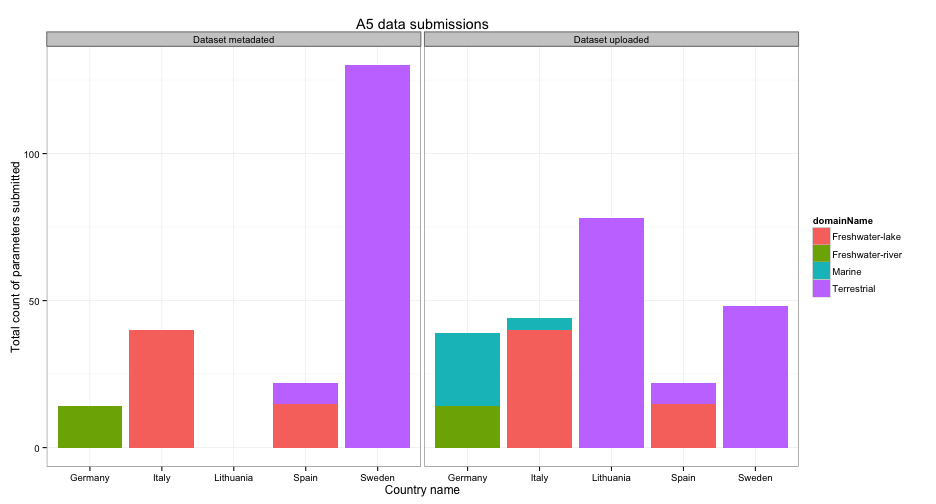
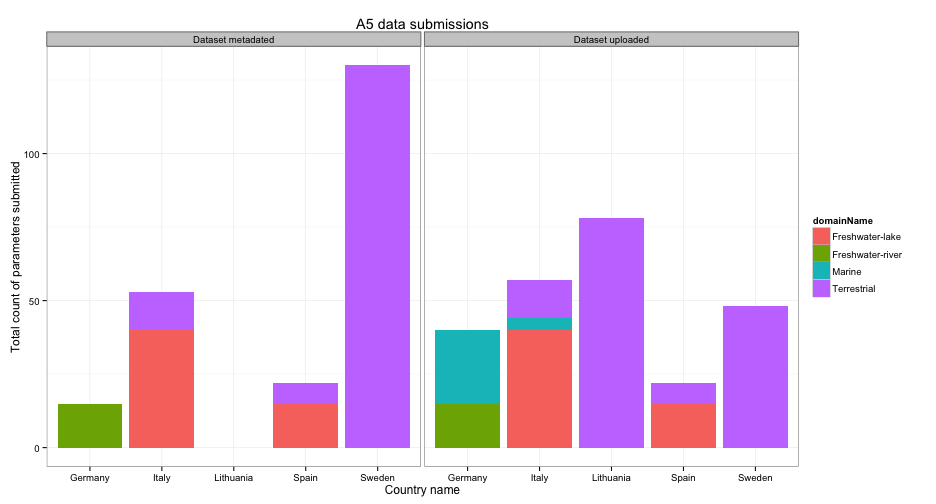
publishing deck

Changed region(s): [[0.5267, 0.5357, 0.6197, 0.6548], [0.1239, 0.5655, 0.2169, 0.6548], [0.4647, 0.6548, 0.5267, 0.6845]]

diff --git a/index.html b/index.html
@@ -48,9 +48,9 @@
   </hgroup>
   <article>
     <ul>
-<li>Last updated <code>2013-03-08</code></li>
+<li>Last updated <code>2013-03-09</code></li>
 <li>Deadline for data submission: <code>2013-03-08</code></li>
-<li>Days to deadline: <code>0</code></li>
+<li>Days to deadline: <code>-1</code></li>
 <li>Total number of sites sampled in 2012: <code>61</code>; sub-sites: <code>65</code></li>
 </ul>
 
@@ -58,13 +58,13 @@
 
 <!-- html table generated in R 2.15.3 by xtable 1.7-0 package -->
 
-<!-- Fri Mar  8 08:08:02 2013 -->
+<!-- Sat Mar  9 08:33:04 2013 -->
 
 <TABLE border=1>
 <TR> <TH>  </TH> <TH> No. uploaded </TH> <TH> No. metadated </TH> <TH> Total no. </TH> <TH> Upload ratio </TH> <TH> Metadata ratio </TH>  </TR>
-  <TR> <TD align="right"> Year2012 </TD> <TD align="right"> 156 </TD> <TD align="right"> 159 </TD> <TD align="right"> 2025 </TD> <TD align="right"> 0.08 </TD> <TD align="right"> 0.08 </TD> </TR>
-  <TR> <TD align="right"> Year2011 </TD> <TD align="right">  75 </TD> <TD align="right">  47 </TD> <TD align="right"> 265 </TD> <TD align="right"> 0.28 </TD> <TD align="right"> 0.18 </TD> </TR>
-  <TR> <TD align="right"> Sum </TD> <TD align="right"> 231 </TD> <TD align="right"> 206 </TD> <TD align="right"> 2290 </TD> <TD align="right"> 0.10 </TD> <TD align="right"> 0.09 </TD> </TR>
+  <TR> <TD align="right"> Year2012 </TD> <TD align="right"> 169 </TD> <TD align="right"> 172 </TD> <TD align="right"> 2025 </TD> <TD align="right"> 0.08 </TD> <TD align="right"> 0.08 </TD> </TR>
+  <TR> <TD align="right"> Year2011 </TD> <TD align="right">  76 </TD> <TD align="right">  48 </TD> <TD align="right"> 265 </TD> <TD align="right"> 0.29 </TD> <TD align="right"> 0.18 </TD> </TR>
+  <TR> <TD align="right"> Sum </TD> <TD align="right"> 245 </TD> <TD align="right"> 220 </TD> <TD align="right"> 2290 </TD> <TD align="right"> 0.11 </TD> <TD align="right"> 0.10 </TD> </TR>
    </TABLE>
 
   </article>

diff --git a/index.md b/index.md
@@ -26,19 +26,19 @@ github:
 
 ## State of uploading process
 
-* Last updated ``2013-03-08``
+* Last updated ``2013-03-09``
 * Deadline for data submission: `2013-03-08`
-* Days to deadline: ``0``
+* Days to deadline: ``-1``
 * Total number of sites sampled in 2012: ``61``; sub-sites: ``65``
 
 Parameters uploaded and metadated:
 <!-- html table generated in R 2.15.3 by xtable 1.7-0 package -->
-<!-- Fri Mar  8 08:08:02 2013 -->
+<!-- Sat Mar  9 08:33:04 2013 -->
 <TABLE border=1>
 <TR> <TH>  </TH> <TH> No. uploaded </TH> <TH> No. metadated </TH> <TH> Total no. </TH> <TH> Upload ratio </TH> <TH> Metadata ratio </TH>  </TR>
-  <TR> <TD align="right"> Year2012 </TD> <TD align="right"> 156 </TD> <TD align="right"> 159 </TD> <TD align="right"> 2025 </TD> <TD align="right"> 0.08 </TD> <TD align="right"> 0.08 </TD> </TR>
-  <TR> <TD align="right"> Year2011 </TD> <TD align="right">  75 </TD> <TD align="right">  47 </TD> <TD align="right"> 265 </TD> <TD align="right"> 0.28 </TD> <TD align="right"> 0.18 </TD> </TR>
-  <TR> <TD align="right"> Sum </TD> <TD align="right"> 231 </TD> <TD align="right"> 206 </TD> <TD align="right"> 2290 </TD> <TD align="right"> 0.10 </TD> <TD align="right"> 0.09 </TD> </TR>
+  <TR> <TD align="right"> Year2012 </TD> <TD align="right"> 169 </TD> <TD align="right"> 172 </TD> <TD align="right"> 2025 </TD> <TD align="right"> 0.08 </TD> <TD align="right"> 0.08 </TD> </TR>
+  <TR> <TD align="right"> Year2011 </TD> <TD align="right">  76 </TD> <TD align="right">  48 </TD> <TD align="right"> 265 </TD> <TD align="right"> 0.29 </TD> <TD align="right"> 0.18 </TD> </TR>
+  <TR> <TD align="right"> Sum </TD> <TD align="right"> 245 </TD> <TD align="right"> 220 </TD> <TD align="right"> 2290 </TD> <TD align="right"> 0.11 </TD> <TD align="right"> 0.10 </TD> </TR>
    </TABLE>
 
 
